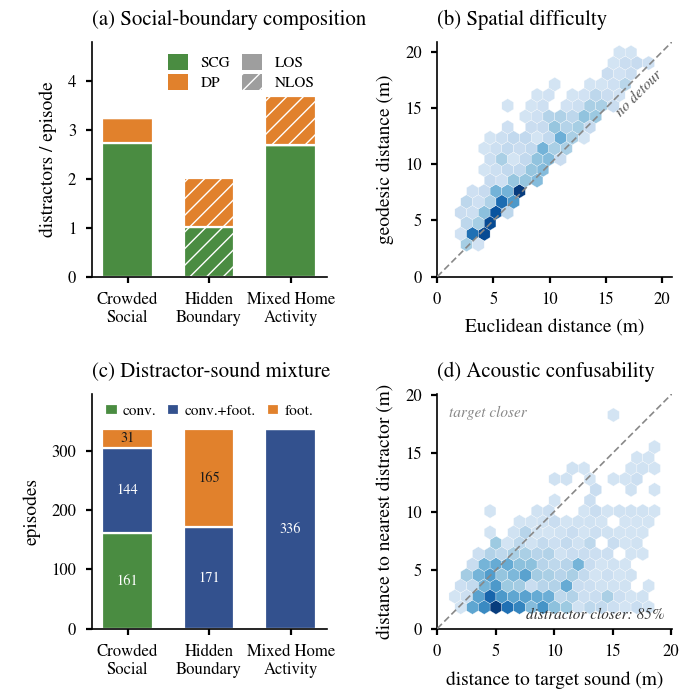
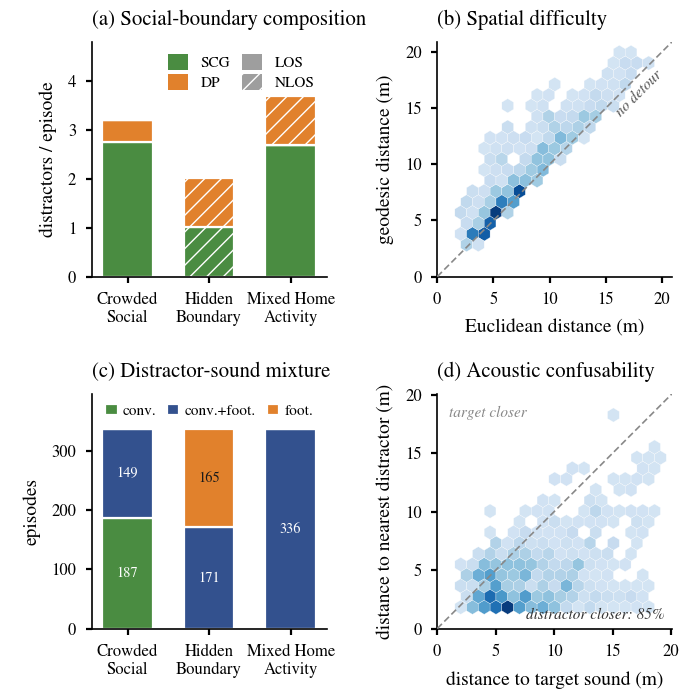
修正 mixed 场景仿真数据抄串，同步结果表与消融分析
- drafts/exp_data-sim.md：按人工校对结果修正 mixed 场景 ours 及两个消融
  变体的 Progress/HCR/NCR 抄串；表格精简为核心 8 列（去掉 extras）
- sections/05-experiments.tex：主结果表 mixed 分组数值与加粗随之更新，
  校对后 ours 在 mixed 全列最优；w/o Topology-Aware Anticipation 一节
  补充 mixed 场景的定量对比（HCR 13.39% vs. 14.58%）
- figures/dataset_stats.{pdf,png}：重新导出

diff --git a/sections/05-experiments.tex b/sections/05-experiments.tex
@@ -53,16 +53,16 @@ Table~\ref{tab:main_results} reports the quantitative performance of SAVNav and 
 			\midrule
 			SAVNav (Ours)            & \textbf{37.80} & \textbf{34.20} & \textbf{25.68} & \textbf{49.77} & \textbf{12.20} & -- & \textbf{94.75}
 			                         & \textbf{37.50} & \textbf{35.68} & \textbf{28.28} & \textbf{51.58} & 14.29 & \textbf{5.65} & \textbf{97.62}
-			                         & \textbf{39.29} & \textbf{36.05} & \textbf{28.08} & 51.29 & 14.29 & 6.55 & \textbf{96.17} \\
+			                         & \textbf{39.29} & \textbf{36.05} & \textbf{28.08} & \textbf{51.39} & \textbf{13.39} & \textbf{5.65} & \textbf{96.17} \\
 			\midrule
 			\multicolumn{22}{c}{\textit{Ablation Variants}} \\
 			\midrule
 			w/o Topology-Aware Anticipation & -- & -- & -- & -- & -- & -- & --
 			                         & 34.23 & 32.48 & 26.13 & 51.49 & 19.05 & 6.85 & 95.97
-			                         & 38.39 & 35.56 & 27.09 & \textbf{51.39} & \textbf{13.39} & 6.25 & 95.51 \\
+			                         & 38.39 & 35.56 & 27.09 & 51.29 & 14.58 & 6.55 & 95.51 \\
 			w/o Active Sensory Exploration  & -- & -- & -- & -- & -- & -- & --
 			                         & 36.01 & 33.85 & 27.04 & 50.59 & 14.58 & 6.55 & 96.62
-			                         & 36.01 & 33.47 & 26.34 & 49.48 & 14.58 & \textbf{5.65} & 95.83 \\
+			                         & 36.01 & 33.47 & 26.34 & 49.48 & 14.29 & 6.25 & 95.83 \\
 			\bottomrule
 		\end{tabular}
 	}
@@ -83,7 +83,7 @@ To isolate the contribution of each capability, we evaluate two ablated variants
 \subsubsection{w/o Topology-Aware Acoustic Anticipation}
 This variant ablates the spatial anticipation dimension by disabling the topology-aware cost entirely: it computes \emph{no} social cost from any NLOS sound event. Only sounds whose source is currently visible contribute to the cost field, so NLOS \texttt{footsteps} and \texttt{conversation} cues are ignored---the planner never extracts candidate emergence nodes from $\mathcal{N}_{\mathrm{topo}}$ nor evaluates $B_{\mathrm{nlos}}^{(t)}(n_j)$ in~\eqref{eq:nlos_score}. The agent thus reacts to occluded humans only once they enter view.
 
-\textit{Results:} As expected, the effect concentrates in the NLOS-bearing scenarios. In hidden boundary, HCR rises from 14.29\% to 19.05\% and NCR from 5.65\% to 6.85\%, while SR drops from 37.50\% to 34.23\%; the degradation confirms that blind-corner safety requires reasoning about \emph{where} an NLOS risk will emerge rather than waiting for it to appear. In mixed home activity, where the LOS conversational group is usually visible, the gap in simulation narrows. Crucially, this component proves decisive on the physical robot (Section~\ref{subsec:exp-realworld}): with reliable acoustic direction, removing NLOS audio cost causes a collision in \emph{every} occluded encounter.
+\textit{Results:} As expected, the effect concentrates in the NLOS-bearing scenarios. In hidden boundary, HCR rises from 14.29\% to 19.05\% and NCR from 5.65\% to 6.85\%, while SR drops from 37.50\% to 34.23\%; the degradation confirms that blind-corner safety requires reasoning about \emph{where} an NLOS risk will emerge rather than waiting for it to appear. In mixed home activity, where the LOS conversational group is usually visible, the gap in simulation narrows, though the full system remains ahead on every metric (e.g., HCR 13.39\% vs.\ 14.58\%). Crucially, this component proves decisive on the physical robot (Section~\ref{subsec:exp-realworld}): with reliable acoustic direction, removing NLOS audio cost causes a collision in \emph{every} occluded encounter.
 
 \subsubsection{w/o Active Sensory Exploration}
 This variant ablates the search dimension by removing information-theoretic utility evaluation. It does not maintain the target belief map $B^{(t)}(\mathbf{x})$ and disables $U^{(t)}(\mathbf{p}_i)$ in~\eqref{eq:utility}. If the acoustic target is unanchored, the robot executes a greedy pursuit: it bypasses viewpoint selection and assigns the nearest traversable point along the current target DOA $\mathbf{d}_{\mathrm{aud}}^{(t)}$ as its immediate waypoint.

diff --git a/drafts/exp_data-sim.md b/drafts/exp_data-sim.md
@@ -14,43 +14,42 @@
 > （每步平移 = lin_speed/ctrl_freq = 9.792/120 = 0.0816 m；仅计平移不计转身）。⚠️ STL 非自动产出指标——
 > `run_experiments.py` / `eval_summary.py` 均不出该列，此处由逐 episode geodesic_distance / success / num_steps
 > 后处理算得，尚未固化进代码。
-> 列顺序参照旧版 `comparison_final.md`（method | n | SR | SPL | STL | Progress | HCR | NCR | PSC | …），
-> 新增 extras（dtg 等）保留未删。
+> 列顺序参照旧版 `comparison_final.md`（method | n | SR | SPL | STL | Progress | HCR | NCR | PSC | …）
 
 ## By scenario
 
 ### scenario = los
 
-| method             | n   | SR     | SPL    | STL    | Progress | HCR    | NCR    | PSC    | distance_to_goal | min_distance_to_goal | num_steps | did_multi_agents_collide | steps    | elapsed_s |
-| ------------------ | --- | ------ | ------ | ------ | -------- | ------ | ------ | ------ | ---------------- | -------------------- | --------- | ------------------------ | -------- | --------- |
-| ours               | 336 | 0.3780 | 0.3420 | 0.2568 | 0.4977   | 0.1220 | 0.0565 | 0.9475 | 4.9302           | 4.3222               | 254.0387  | 0.1220                   | 254.0387 | 191.3286  |
-| ours_no_active     | 336 | 0.3750 | 0.3380 | 0.2536 | 0.5105   | 0.1190 | 0.0536 | 0.9498 | 4.5757           | 4.1834               | 259.4405  | 0.1190                   | 259.4405 | 191.0698  |
-| ours_no_audio_cost | 336 | 0.3839 | 0.3523 | 0.2496 | 0.5181   | 0.1190 | 0.0506 | 0.9444 | 4.6504           | 4.1137               | 259.7381  | 0.1190                   | 259.7381 | 190.5905  |
-| reactive           | 336 | 0.2321 | 0.2093 | 0.1562 | 0.4209   | 0.1280 | 0.0685 | 0.9419 | 5.4274           | 4.7286               | 288.0357  | 0.1280                   | 288.0357 | 214.1333  |
-| falcon_oracle      | 336 | 0.0804 | 0.0581 | 0.0273 | 0.3471   | 0.3095 | 0.1101 | 0.8982 | 6.3133           | 5.6938               | 389.9732  | 0.3095                   | 389.9732 | 264.4401  |
-| falcon_ours_goal   | 336 | 0.0774 | 0.0662 | 0.0353 | 0.3027   | 0.3333 | 0.1220 | 0.8783 | 6.6866           | 5.9433               | 371.8214  | 0.3333                   | 371.8214 | 270.2381  |
-| enmus              | 168 | 0.0000 | 0.0000 | 0.0000 | 0.0993   | 0.1488 | 0.0536 | 0.9567 | 9.0654           | 7.3809               | 460.2738  | 0.1488                   | 460.2738 | 214.9105  |
+| method             | n    | SR     | SPL    | STL    | Progress | HCR    | NCR    | PSC    |
+| ------------------ | ---- | ------ | ------ | ------ | -------- | ------ | ------ | ------ |
+| ours               | 336  | 0.3780 | 0.3420 | 0.2568 | 0.4977   | 0.1220 | 0.0565 | 0.9475 |
+| ours_no_active     | 336  | 0.3750 | 0.3380 | 0.2536 | 0.5105   | 0.1190 | 0.0536 | 0.9498 |
+| ours_no_audio_cost | 336  | 0.3839 | 0.3523 | 0.2496 | 0.5181   | 0.1190 | 0.0506 | 0.9444 |
+| reactive           | 336  | 0.2321 | 0.2093 | 0.1562 | 0.4209   | 0.1280 | 0.0685 | 0.9419 |
+| falcon_oracle      | 336  | 0.0804 | 0.0581 | 0.0273 | 0.3471   | 0.3095 | 0.1101 | 0.8982 |
+| falcon_ours_goal   | 336  | 0.0774 | 0.0662 | 0.0353 | 0.3027   | 0.3333 | 0.1220 | 0.8783 |
+| enmus              | 168  | 0.0000 | 0.0000 | 0.0000 | 0.0993   | 0.1488 | 0.0536 | 0.9567 |
 
 ### scenario = nlos
 
-| method             | n   | SR     | SPL    | STL    | Progress | HCR    | NCR    | PSC    | distance_to_goal | min_distance_to_goal | num_steps | did_multi_agents_collide | steps    | elapsed_s |
-| ------------------ | --- | ------ | ------ | ------ | -------- | ------ | ------ | ------ | ---------------- | -------------------- | --------- | ------------------------ | -------- | --------- |
-| ours               | 336 | 0.3750 | 0.3568 | 0.2828 | 0.5158   | 0.1429 | 0.0565 | 0.9762 | 4.6147           | 4.2046               | 264.3036  | 0.1429                   | 264.3036 | 165.5115  |
-| ours_no_active     | 336 | 0.3601 | 0.3385 | 0.2704 | 0.5059   | 0.1458 | 0.0655 | 0.9662 | 4.3953           | 3.9676               | 270.0982  | 0.1458                   | 270.0982 | 163.7330  |
-| ours_no_audio_cost | 336 | 0.3423 | 0.3248 | 0.2613 | 0.5149   | 0.1905 | 0.0685 | 0.9597 | 4.4480           | 4.0971               | 258.2292  | 0.1905                   | 258.2292 | 154.9607  |
-| reactive           | 336 | 0.2262 | 0.2102 | 0.1630 | 0.4309   | 0.1339 | 0.0595 | 0.9666 | 5.4051           | 4.7756               | 273.1250  | 0.1339                   | 273.1250 | 170.3725  |
-| falcon_oracle      | 336 | 0.1399 | 0.1112 | 0.0541 | 0.3979   | 0.2530 | 0.0833 | 0.9501 | 6.4632           | 5.7405               | 404.8601  | 0.2530                   | 404.8601 | 226.7607  |
-| falcon_ours_goal   | 336 | 0.1042 | 0.0817 | 0.0437 | 0.3487   | 0.2708 | 0.1131 | 0.9482 | 6.8898           | 6.0964               | 405.8155  | 0.2708                   | 405.8155 | 244.5536  |
-| enmus              | 168 | 0.0000 | 0.0000 | 0.0000 | 0.1805   | 0.1012 | 0.0179 | 0.9899 | 8.9513           | 7.4496               | 476.4464  | 0.1012                   | 476.4464 | 194.3346  |
+| method             | n    | SR     | SPL    | STL    | Progress | HCR    | NCR    | PSC    |
+| ------------------ | ---- | ------ | ------ | ------ | -------- | ------ | ------ | ------ |
+| ours               | 336  | 0.3750 | 0.3568 | 0.2828 | 0.5158   | 0.1429 | 0.0565 | 0.9762 |
+| ours_no_active     | 336  | 0.3601 | 0.3385 | 0.2704 | 0.5059   | 0.1458 | 0.0655 | 0.9662 |
+| ours_no_audio_cost | 336  | 0.3423 | 0.3248 | 0.2613 | 0.5149   | 0.1905 | 0.0685 | 0.9597 |
+| reactive           | 336  | 0.2262 | 0.2102 | 0.1630 | 0.4309   | 0.1339 | 0.0595 | 0.9666 |
+| falcon_oracle      | 336  | 0.1399 | 0.1112 | 0.0541 | 0.3979   | 0.2530 | 0.0833 | 0.9501 |
+| falcon_ours_goal   | 336  | 0.1042 | 0.0817 | 0.0437 | 0.3487   | 0.2708 | 0.1131 | 0.9482 |
+| enmus              | 168  | 0.0000 | 0.0000 | 0.0000 | 0.1805   | 0.1012 | 0.0179 | 0.9899 |
 
 ### scenario = mixed
 
-| method             | n   | SR     | SPL    | STL    | Progress | HCR    | NCR    | PSC    | distance_to_goal | min_distance_to_goal | num_steps | did_multi_agents_collide | steps    | elapsed_s |
-| ------------------ | --- | ------ | ------ | ------ | -------- | ------ | ------ | ------ | ---------------- | -------------------- | --------- | ------------------------ | -------- | --------- |
-| ours               | 336 | 0.3929 | 0.3605 | 0.2808 | 0.5129   | 0.1429 | 0.0655 | 0.9617 | 4.5869           | 4.2983               | 264.6637  | 0.1429                   | 264.6637 | 215.1874  |
-| ours_no_active     | 336 | 0.3601 | 0.3347 | 0.2634 | 0.4948   | 0.1458 | 0.0565 | 0.9583 | 4.8931           | 4.5967               | 261.2798  | 0.1458                   | 261.2798 | 208.1883  |
-| ours_no_audio_cost | 336 | 0.3839 | 0.3556 | 0.2709 | 0.5139   | 0.1339 | 0.0625 | 0.9551 | 4.6197           | 4.2299               | 262.5774  | 0.1339                   | 262.5774 | 208.8033  |
-| reactive           | 336 | 0.2500 | 0.2264 | 0.1731 | 0.4305   | 0.1577 | 0.0595 | 0.9503 | 5.4265           | 4.9677               | 283.2351  | 0.1577                   | 283.2351 | 230.4718  |
-| falcon_oracle      | 336 | 0.1042 | 0.0784 | 0.0370 | 0.3251   | 0.3899 | 0.1131 | 0.8744 | 7.0783           | 6.4776               | 368.0833  | 0.3899                   | 368.0833 | 268.1525  |
-| falcon_ours_goal   | 336 | 0.0655 | 0.0555 | 0.0288 | 0.2987   | 0.3869 | 0.1161 | 0.8850 | 7.2731           | 6.6229               | 362.9940  | 0.3869                   | 362.9940 | 276.6745  |
-| enmus              | 168 | 0.0000 | 0.0000 | 0.0000 | 0.1662   | 0.2679 | 0.0417 | 0.9384 | 8.9243           | 7.7993               | 436.2262  | 0.2679                   | 436.2262 | 229.4422  |
+| method             | n    | SR     | SPL    | STL    | Progress | HCR    | NCR    | PSC    |
+| ------------------ | ---- | ------ | ------ | ------ | -------- | ------ | ------ | ------ |
+| ours               | 336  | 0.3929 | 0.3605 | 0.2808 | 0.5139   | 0.1339 | 0.0565 | 0.9617 |
+| ours_no_active     | 336  | 0.3601 | 0.3347 | 0.2634 | 0.4948   | 0.1429 | 0.0625 | 0.9583 |
+| ours_no_audio_cost | 336  | 0.3839 | 0.3556 | 0.2709 | 0.5129   | 0.1458 | 0.0655 | 0.9551 |
+| reactive           | 336  | 0.2500 | 0.2264 | 0.1731 | 0.4305   | 0.1577 | 0.0595 | 0.9503 |
+| falcon_oracle      | 336  | 0.1042 | 0.0784 | 0.0370 | 0.3251   | 0.3899 | 0.1131 | 0.8744 |
+| falcon_ours_goal   | 336  | 0.0655 | 0.0555 | 0.0288 | 0.2987   | 0.3869 | 0.1161 | 0.8850 |
+| enmus              | 168  | 0.0000 | 0.0000 | 0.0000 | 0.1662   | 0.2679 | 0.0417 | 0.9384 |